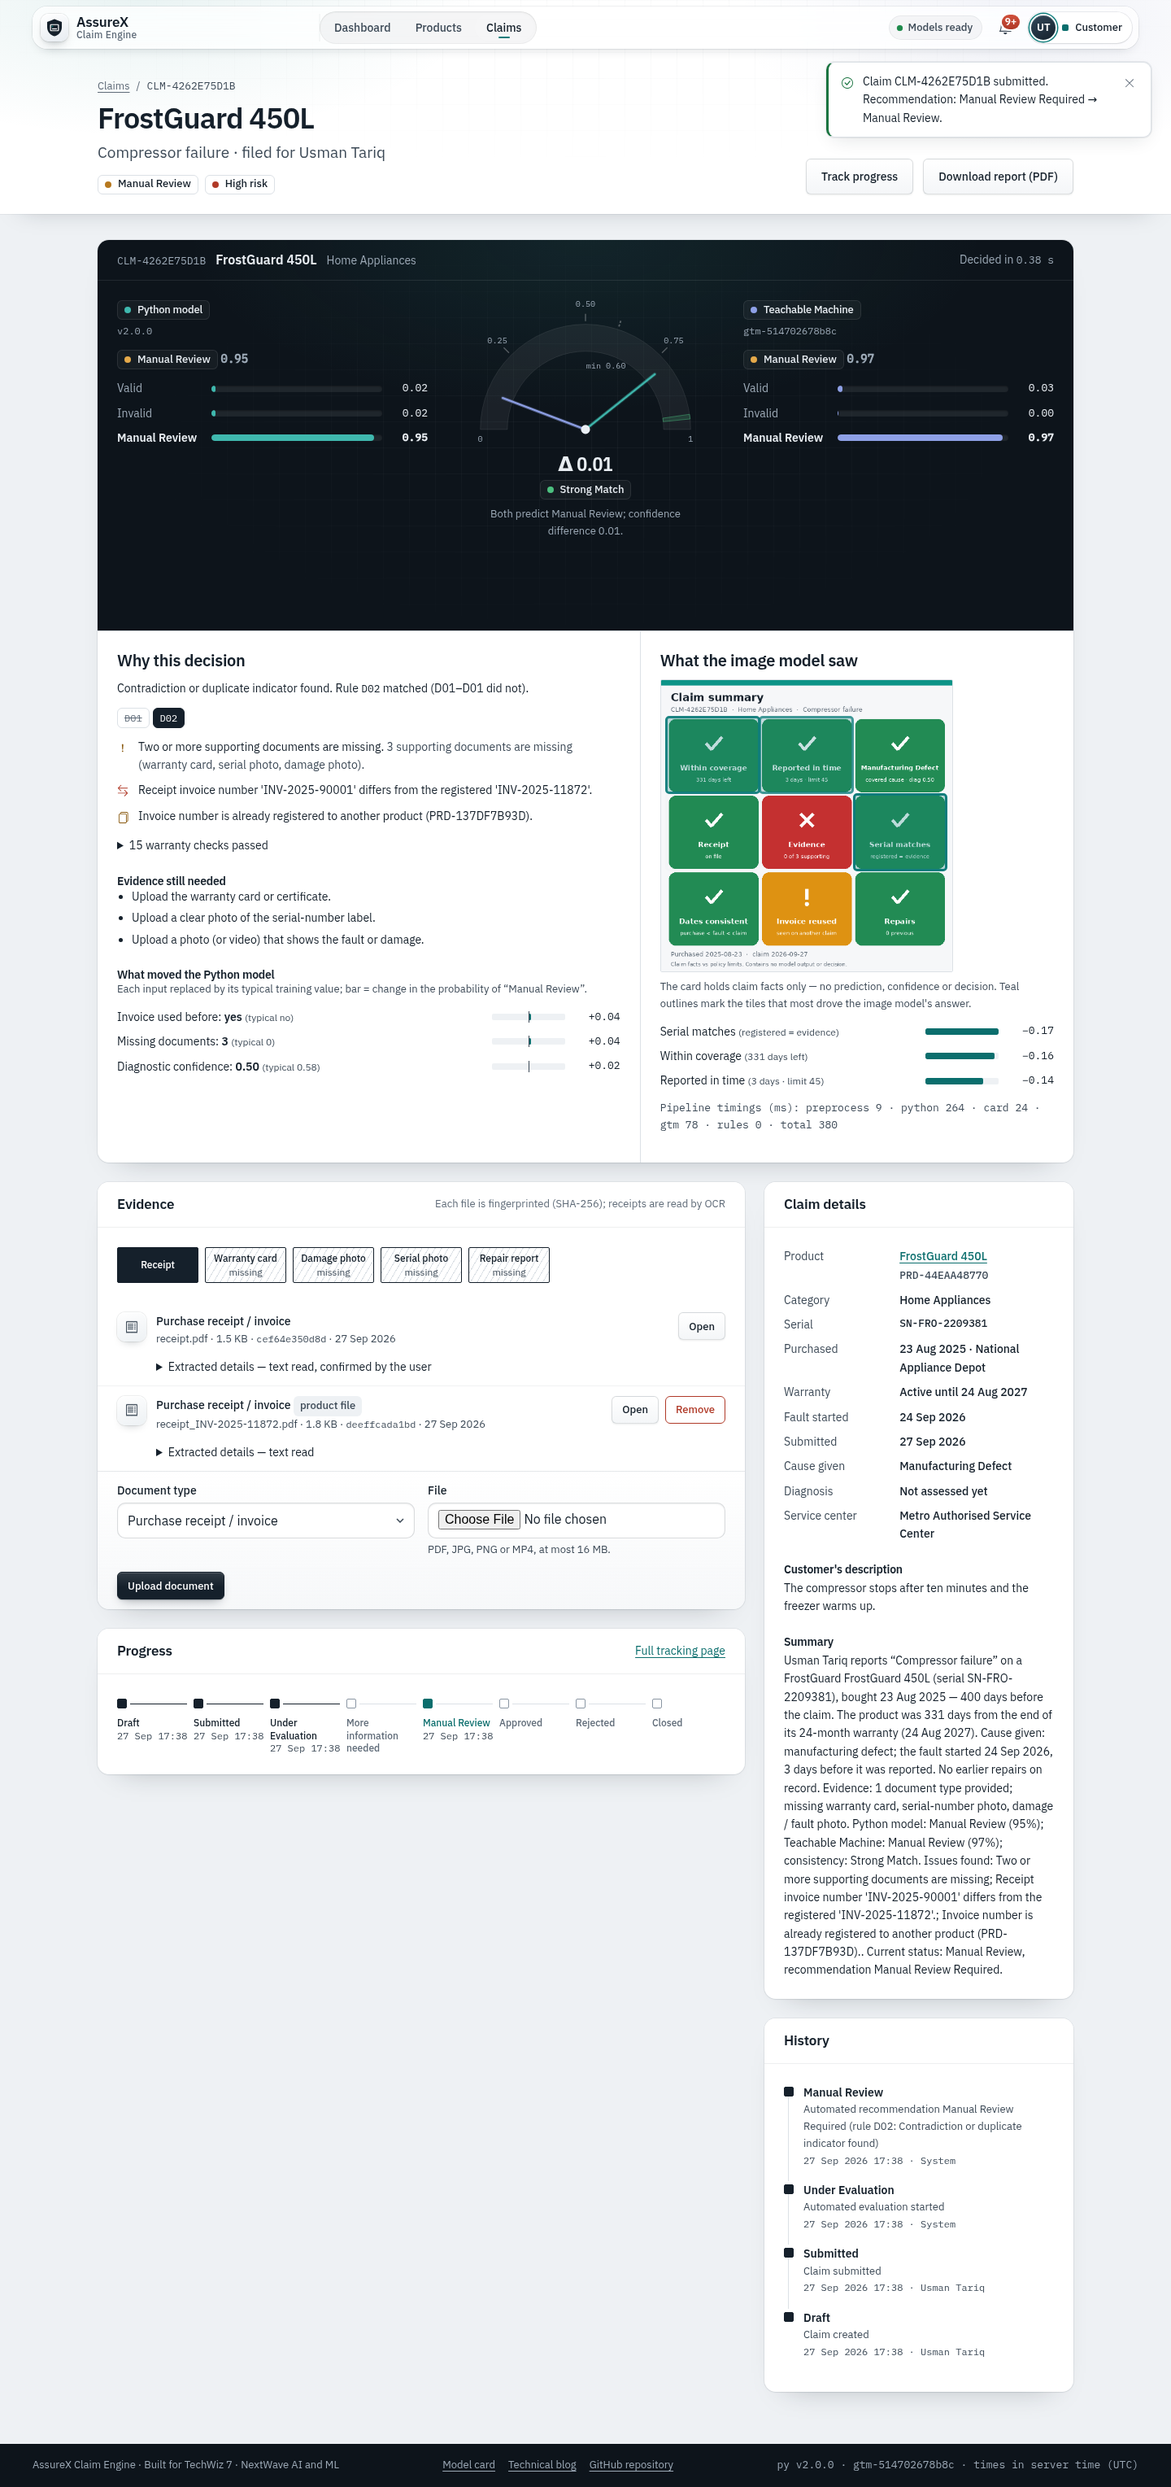
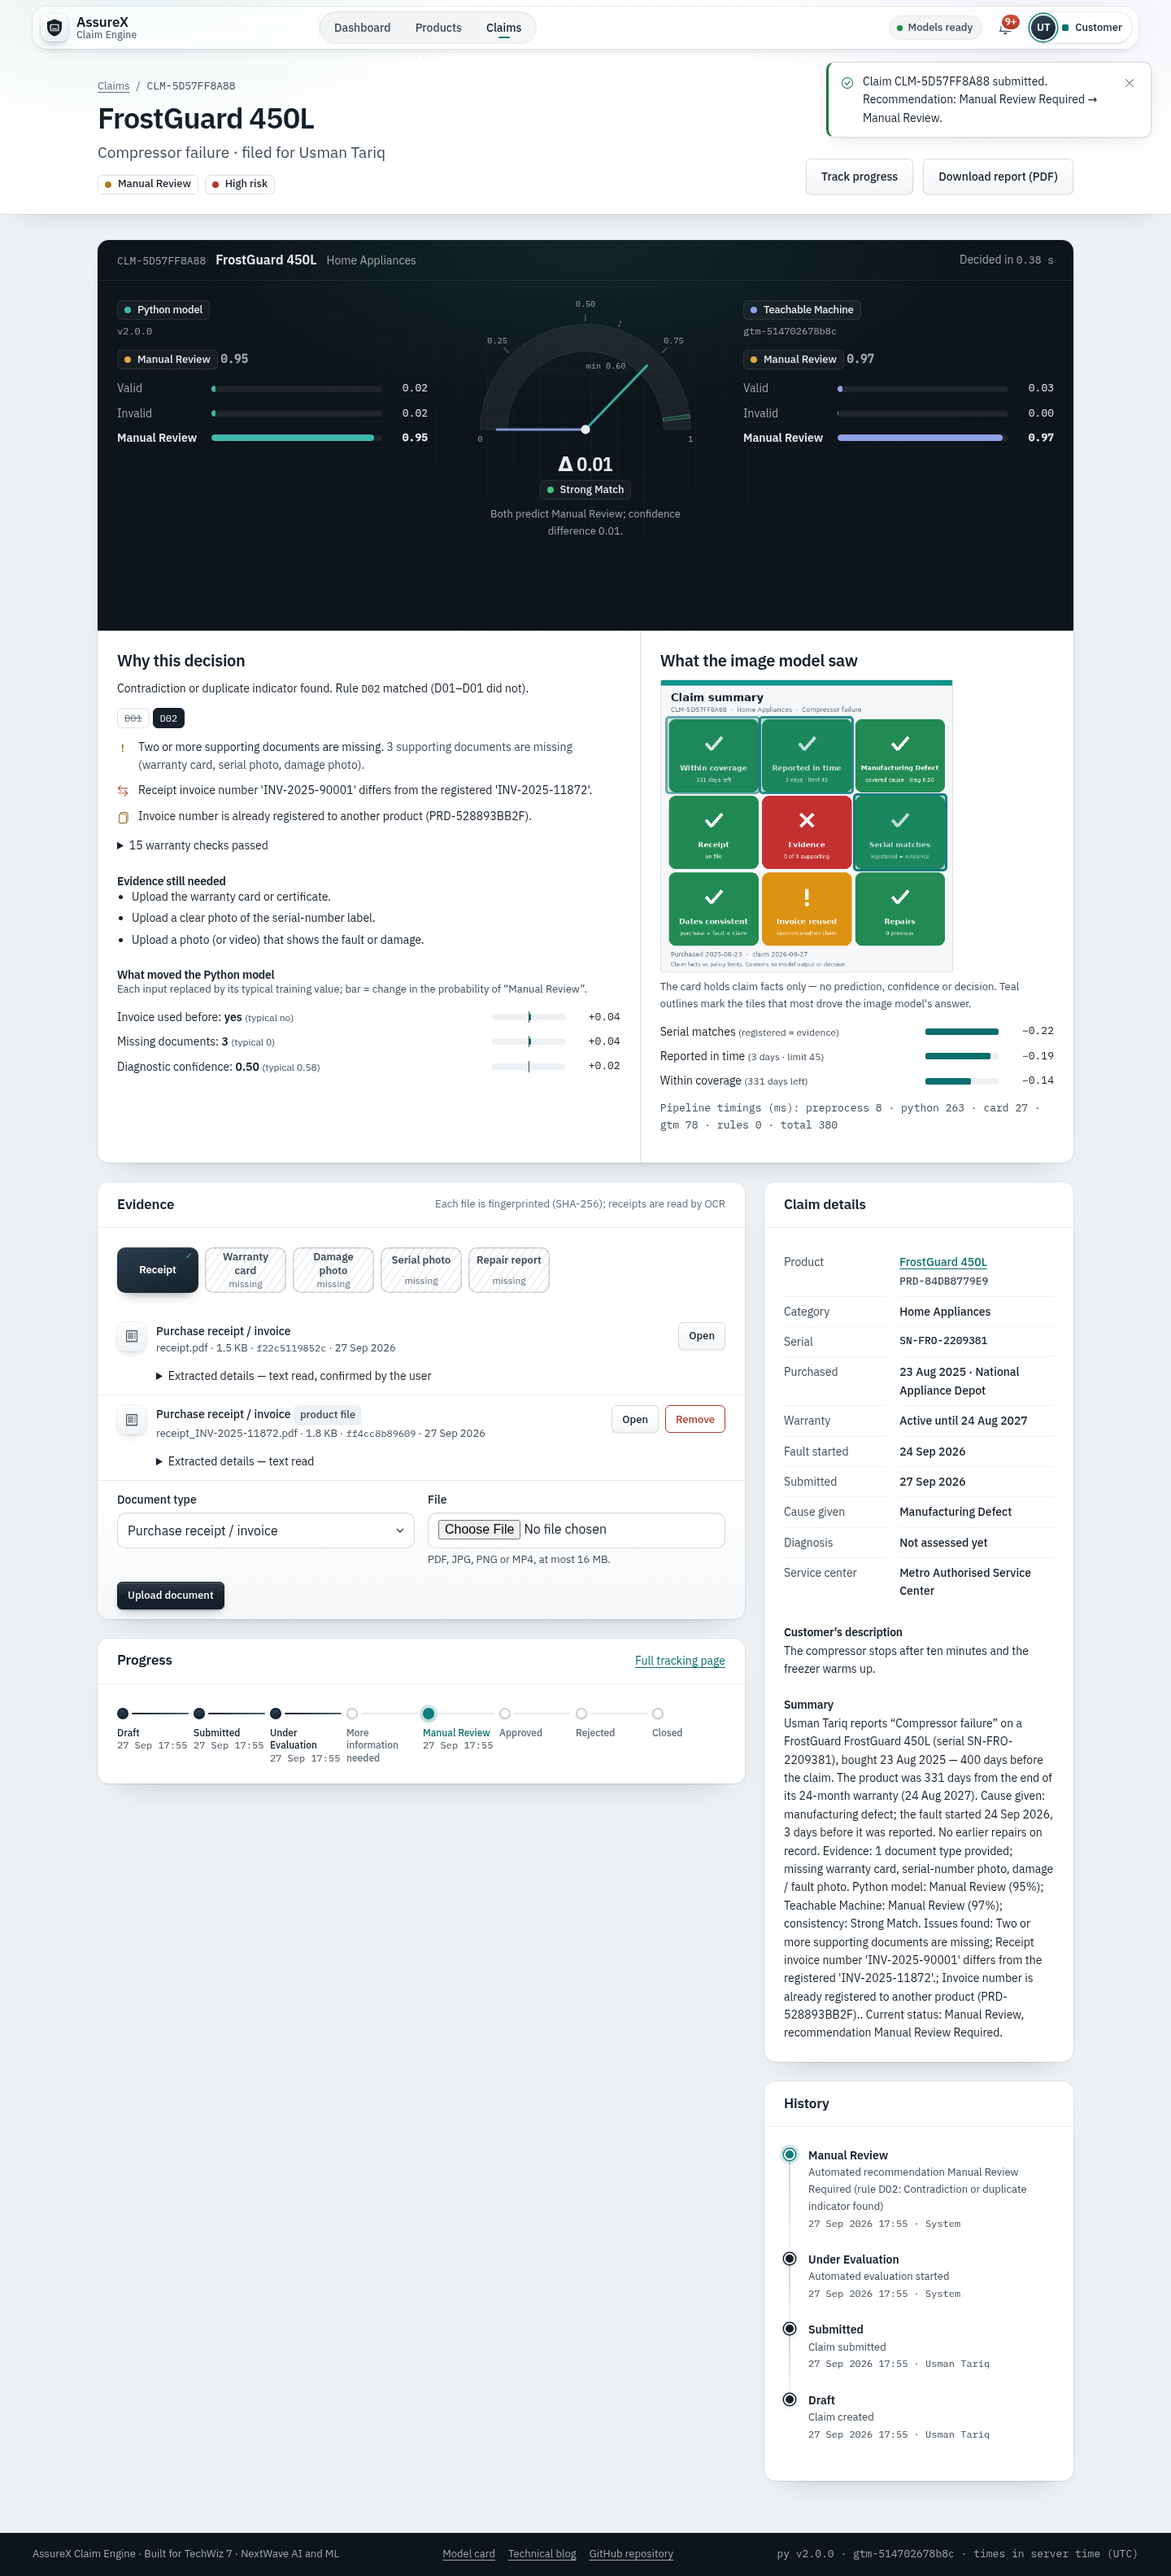
style: claim detail and reviewer workbench, premium pass
Progress is a node stepper (round nodes, a rail that fills to the current
stage, a teal ring on the current one); history is a rail whose newest
entry glows; evidence tiles are raised plates with a tick or hatched
wells; the document viewer is a light scanner bed with viewfinder
corners and lifted thumbnails; key-value rows get hairlines; keyboard
hints look like keys. The reviewer's decision is a segmented control
coloured by what it records (approve green, reject red, request
information amber), and in the workbench's narrow verdict column the
probability bars run full width under their labels.

Fixes the workbench column tabs showing on desktop, which the new tab
tray style had brought back; they are for screens under 1280px.

diff --git a/static/css/app.css b/static/css/app.css
@@ -1267,3 +1267,76 @@ a.kpi:focus-visible { box-shadow: var(--focus); }
 .menu-all { display: flex !important; justify-content: center; gap: var(--s1); margin-top: var(--s1); border-top: 1px solid rgba(21, 32, 43, .08);
   border-radius: 0 0 14px 14px !important; color: var(--teal) !important; font-weight: 500; }
 @media (max-width: 560px) { .notif-actions { width: 100%; margin-left: calc(36px + var(--s3)); } }
+
+/* ================================================================== claim detail and workbench
+   Progress as a node stepper, history as a rail, evidence tiles with depth, the document viewer as a light
+   scanner bed, and the reviewer's choice as a segmented control coloured by the decision it records. */
+
+/* progress stepper: round nodes joined by a rail that fills up to the current stage */
+.stage::before { width: 14px; height: 14px; top: 5px; border-radius: 50%; border: 2px solid rgba(21, 32, 43, .22); background: var(--paper);
+  box-shadow: 0 1px 2px rgba(21, 32, 43, .12); }
+.stage::after { top: 11px; left: 18px; right: 2px; height: 2px; border-radius: 2px; background: rgba(21, 32, 43, .1); }
+.stage.done::before { background: linear-gradient(160deg, #33485A, var(--ink)); border-color: var(--ink); }
+.stage.done::after { background: linear-gradient(90deg, var(--ink), #4A6275); }
+.stage.now::before { background: var(--teal-mark); border-color: var(--teal-mark);
+  box-shadow: 0 0 0 4px color-mix(in srgb, var(--teal-mark) 20%, transparent), 0 4px 10px -4px var(--teal-mark); }
+.stage.now .n { color: var(--teal); }
+.stages.compact .stage::before { width: 12px; height: 12px; top: 0; border-width: 1.5px; }
+.stages.compact .stage.now::before { box-shadow: 0 0 0 3px color-mix(in srgb, var(--teal-mark) 22%, transparent); }
+
+/* history rail */
+.timeline li { padding-left: 30px; padding-bottom: var(--s5); }
+.timeline li::before { left: 6px; top: 18px; width: 2px; border-radius: 2px; background: linear-gradient(180deg, rgba(21, 32, 43, .2), rgba(21, 32, 43, .06)); }
+.timeline .dot { width: 14px; height: 14px; top: 3px; border-radius: 50%; border: 2px solid var(--paper);
+  box-shadow: 0 0 0 1.5px var(--ink), 0 2px 6px -2px rgba(21, 32, 43, .5); }
+.timeline li:first-child .dot { background: var(--teal-mark); box-shadow: 0 0 0 1.5px var(--teal-mark), 0 0 0 5px color-mix(in srgb, var(--teal-mark) 18%, transparent); }
+.timeline .small.strong { font-size: var(--fs-sm); }
+
+/* evidence tiles: present = raised ink plate with a tick, missing = hatched well */
+.evtile { position: relative; border: 0; border-radius: 10px; min-height: 52px; font-size: var(--fs-xs); font-weight: 600; line-height: 1.25; text-align: center; }
+.evtile.on { background: linear-gradient(160deg, #2B3D4C, var(--ink)); box-shadow: inset 0 1px 0 rgba(255, 255, 255, .14), 0 8px 16px -10px rgba(21, 32, 43, .7); }
+.evtile.on::before { content: "✓"; position: absolute; top: 4px; right: 7px; font-size: 11px; color: var(--teal-bright); }
+.evtile.off { background: repeating-linear-gradient(-55deg, var(--paper) 0 6px, #EEF1F4 6px 8px);
+  box-shadow: inset 0 0 0 1.5px rgba(21, 32, 43, .18), inset 0 1px 3px rgba(21, 32, 43, .08); color: var(--ink-2); }
+.evtile.off::after { font-size: var(--fs-2xs); color: var(--steel); }
+
+/* document viewer: a light scanner bed with viewfinder corners */
+.viewer .frame { position: relative; border: 0; border-radius: 14px; padding: var(--s4);
+  background: radial-gradient(420px 220px at 50% 0%, #FFFFFF, #EEF1F4);
+  box-shadow: inset 0 0 0 1px rgba(21, 32, 43, .08), inset 0 2px 6px rgba(21, 32, 43, .06); }
+.viewer .frame::before { --c: var(--teal-mark); --l: 16px; --w: 2px; content: ""; position: absolute; inset: 8px; pointer-events: none; opacity: .8;
+  background:
+    linear-gradient(var(--c), var(--c)) top left / var(--l) var(--w) no-repeat, linear-gradient(var(--c), var(--c)) top left / var(--w) var(--l) no-repeat,
+    linear-gradient(var(--c), var(--c)) top right / var(--l) var(--w) no-repeat, linear-gradient(var(--c), var(--c)) top right / var(--w) var(--l) no-repeat,
+    linear-gradient(var(--c), var(--c)) bottom left / var(--l) var(--w) no-repeat, linear-gradient(var(--c), var(--c)) bottom left / var(--w) var(--l) no-repeat,
+    linear-gradient(var(--c), var(--c)) bottom right / var(--l) var(--w) no-repeat, linear-gradient(var(--c), var(--c)) bottom right / var(--w) var(--l) no-repeat; }
+.viewer .frame img { border-radius: 6px; box-shadow: 0 12px 28px -14px rgba(21, 32, 43, .55); }
+.thumbs button { border: 0; border-radius: 10px; box-shadow: 0 0 0 1px rgba(21, 32, 43, .12), 0 4px 10px -6px rgba(21, 32, 43, .4); transition: box-shadow var(--t-fast), transform var(--t-fast); }
+.thumbs button:hover { transform: translateY(-2px); }
+.thumbs button[aria-pressed="true"] { box-shadow: 0 0 0 2px var(--teal-mark), 0 6px 14px -6px color-mix(in srgb, var(--teal-mark) 70%, transparent); }
+.thumbs img { border-radius: 10px; }
+
+/* keyboard hints */
+.kbd { border: 0; border-radius: 6px; padding: 1px 6px; background: linear-gradient(180deg, #FFFFFF, #EEF1F4);
+  box-shadow: inset 0 -1.5px 0 rgba(21, 32, 43, .18), 0 0 0 1px rgba(21, 32, 43, .12); color: var(--ink-2); }
+
+/* segmented controls, and the reviewer's decision coloured by what it records */
+.seg { border: 0; gap: 2px; padding: 4px; border-radius: 12px; background: rgba(21, 32, 43, .05); box-shadow: inset 0 1px 2px rgba(21, 32, 43, .08); }
+.seg span { border-radius: 9px; padding: 7px var(--s3); transition: background-color var(--t-fast), color var(--t-fast), box-shadow var(--t-fast); }
+.seg label:hover span { color: var(--ink); background: rgba(255, 255, 255, .7); }
+.seg input:checked + span { background: linear-gradient(160deg, #2B3D4C, var(--ink)); color: var(--paper); box-shadow: 0 6px 14px -8px rgba(21, 32, 43, .7); }
+.decision-seg input[value="approve"]:checked + span { background: linear-gradient(160deg, #22875A, var(--valid)); box-shadow: 0 8px 16px -8px var(--valid); }
+.decision-seg input[value="reject"]:checked + span { background: linear-gradient(160deg, #C24A36, var(--invalid)); box-shadow: 0 8px 16px -8px var(--invalid); }
+.decision-seg input[value="request_info"]:checked + span { background: linear-gradient(160deg, #9E6A18, var(--review)); box-shadow: 0 8px 16px -8px var(--review); }
+.seg input:checked + span .kbd { background: rgba(255, 255, 255, .16); color: inherit; box-shadow: inset 0 0 0 1px rgba(255, 255, 255, .3); }
+
+/* claim detail: key-value rows with hairlines */
+.panel .kv { row-gap: 0; }
+.panel .kv dt, .panel .kv dd { padding: 7px 0; border-bottom: 1px solid rgba(21, 32, 43, .06); }
+.panel .kv dt:last-of-type, .panel .kv dd:last-of-type { border-bottom: 0; }
+/* the workbench's column tabs exist only below 1280px (the tray style above must not bring them back) */
+@media (min-width: 1280px) { .tabs.wb-tabs { display: none; } }
+.decision-bar { background: color-mix(in srgb, var(--paper) 95%, transparent); }
+/* workbench: in the narrow verdict column each probability bar runs full width under its label */
+.workbench .pbar { grid-template-columns: minmax(0, 1fr) auto; row-gap: 4px; }
+.workbench .pbar .t { grid-column: 1 / -1; grid-row: 2; }
